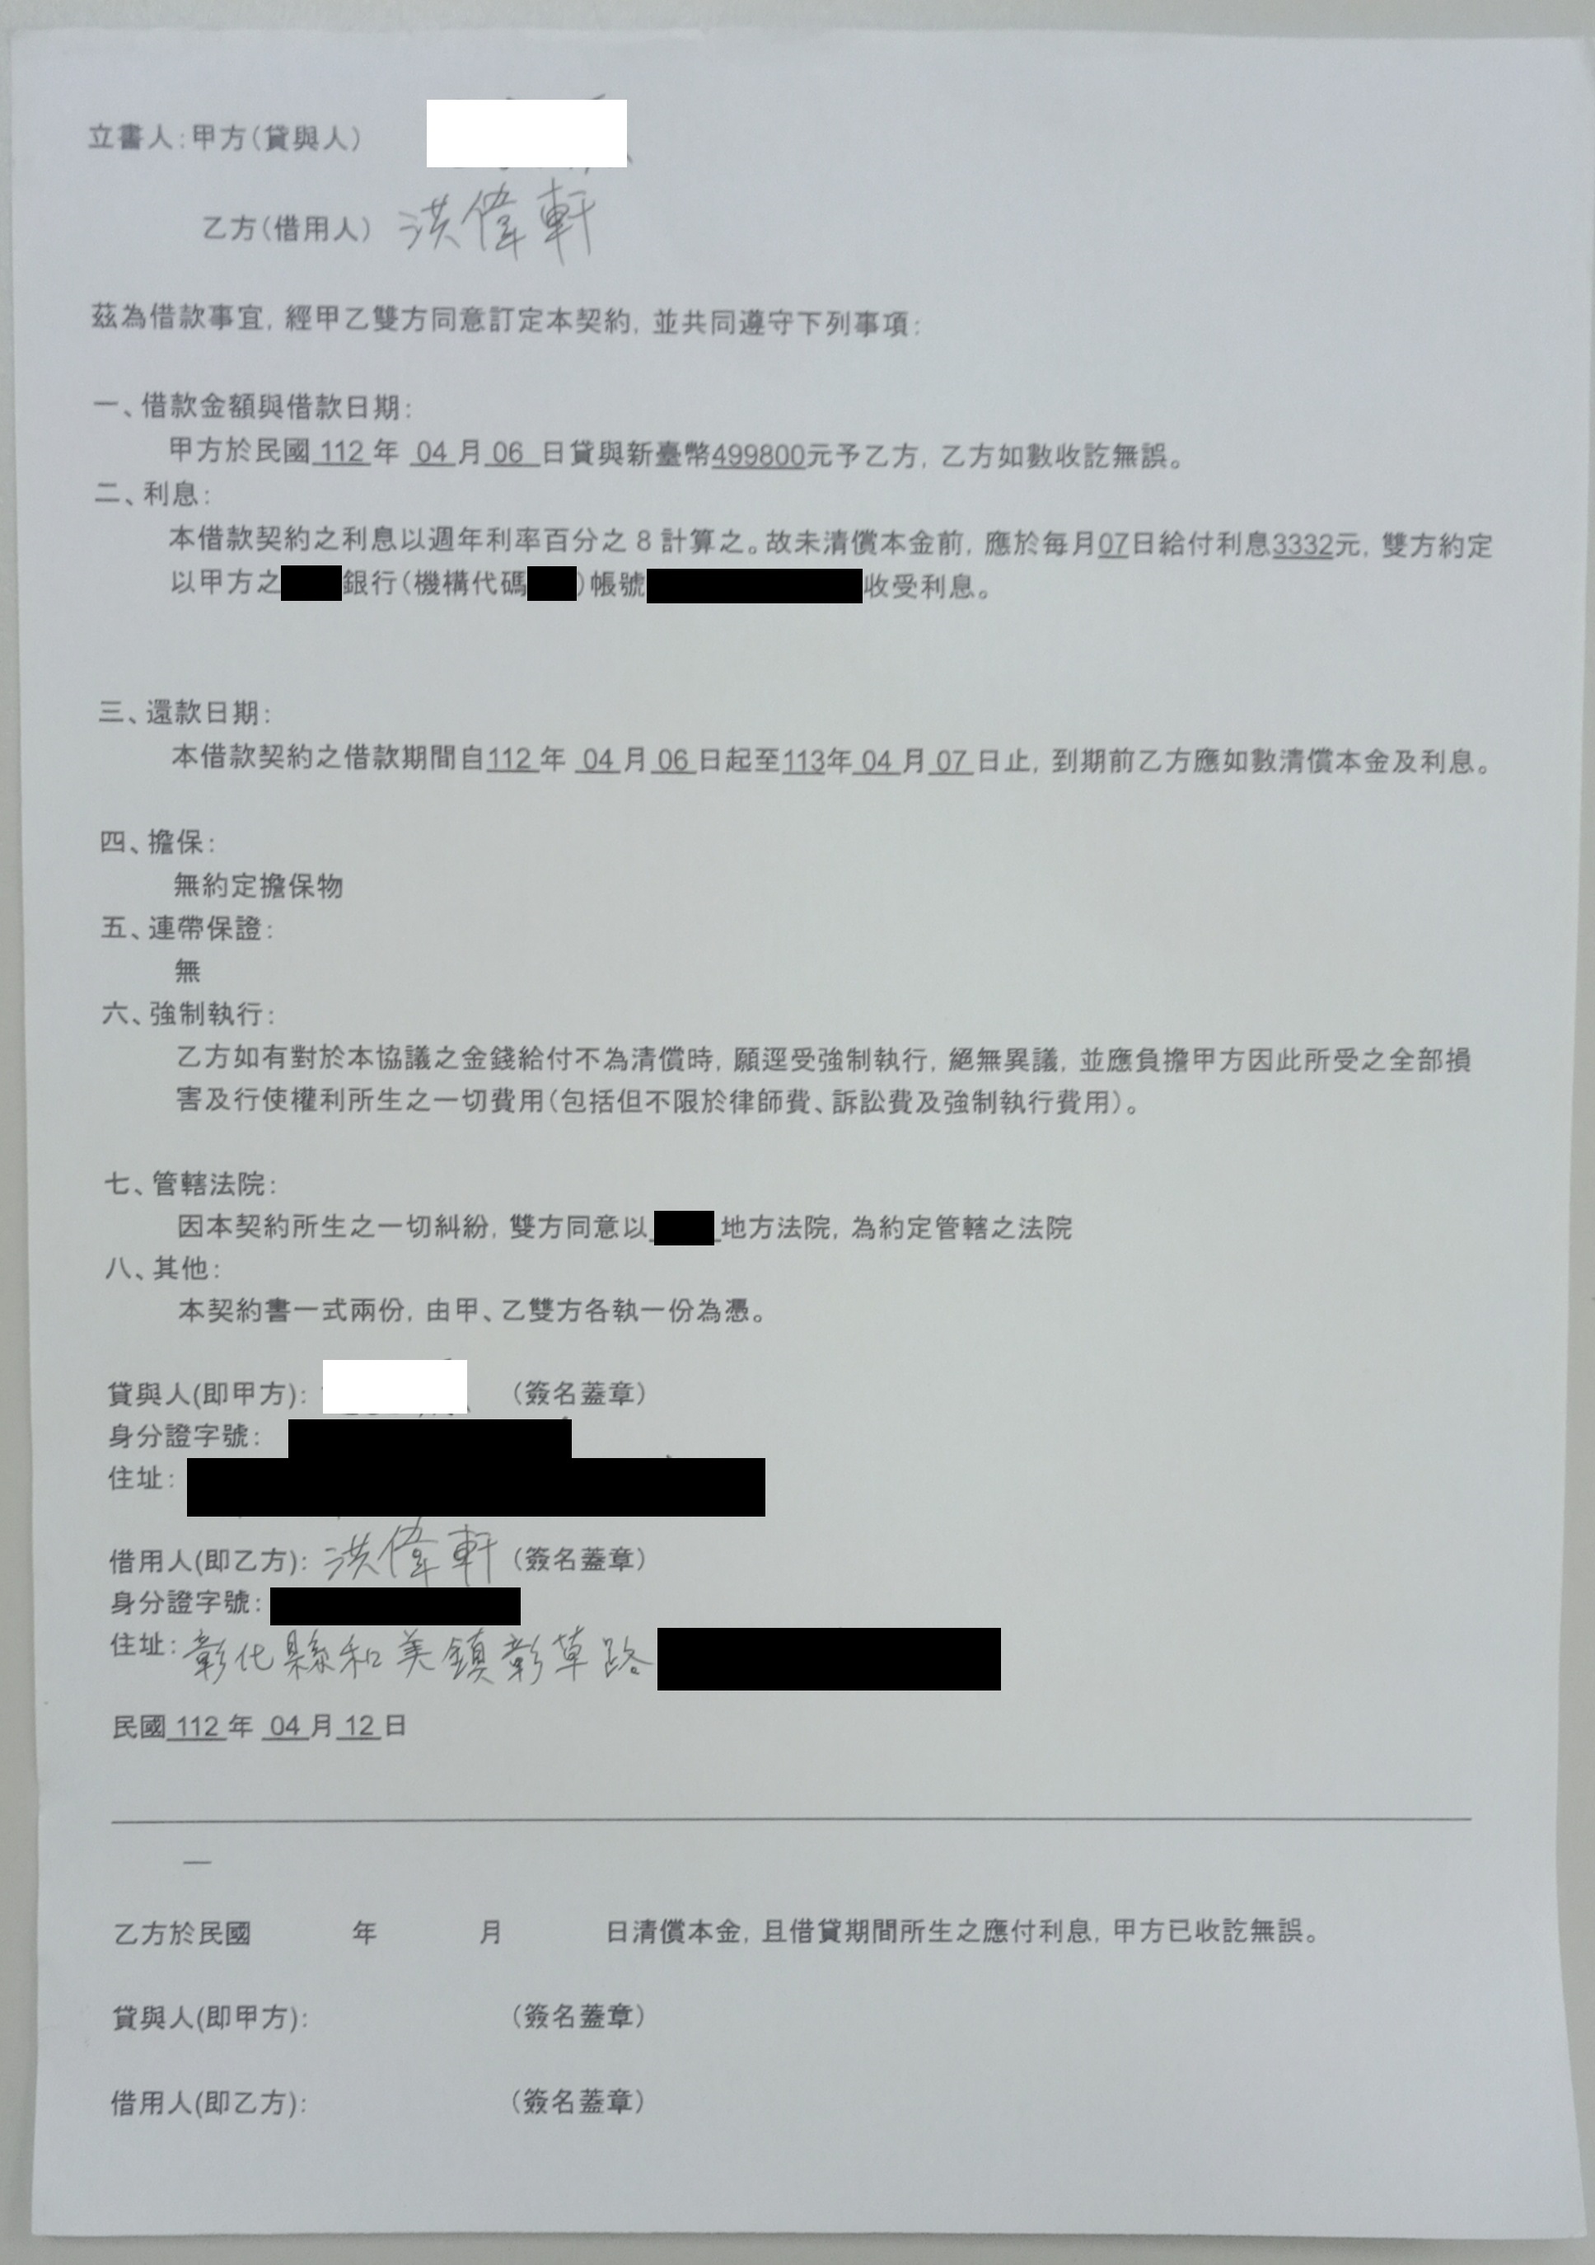
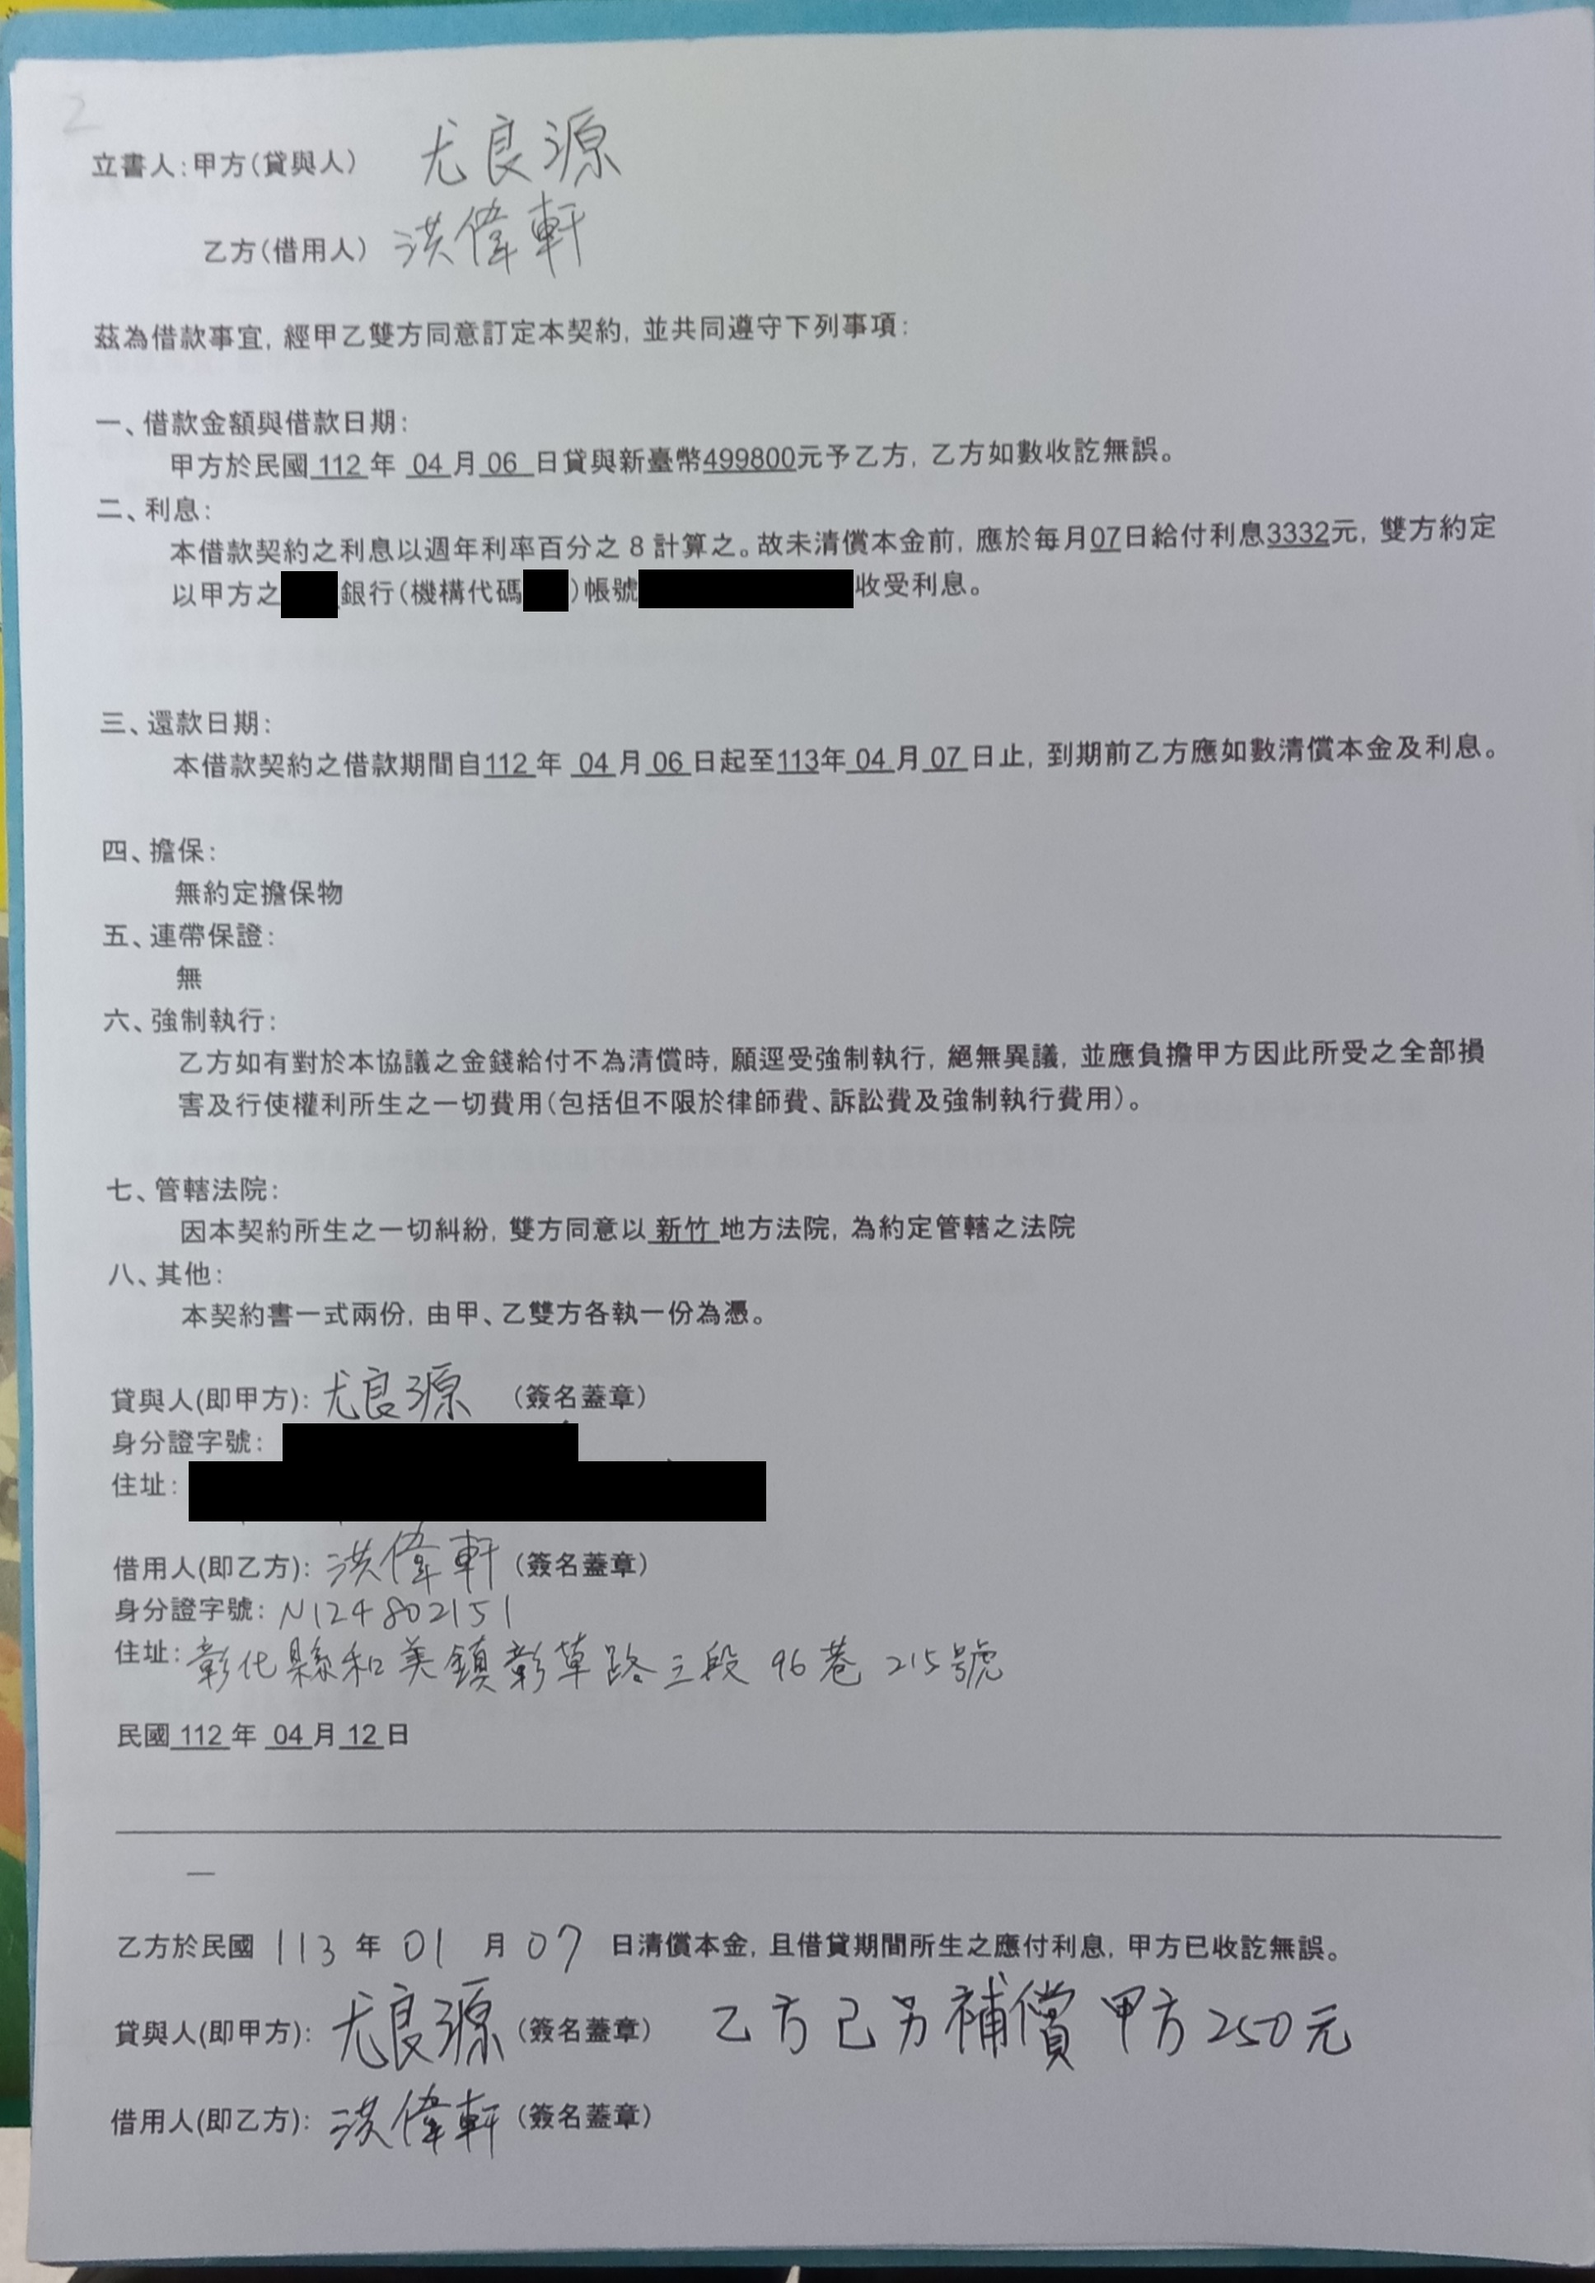
2024/01/28：2清償，簽4,5,6。

diff --git a/loanContractDisplay/contractDataList.js b/loanContractDisplay/contractDataList.js
@@ -13,7 +13,7 @@ let contractDataList = [
 	},
 	{
 		Id: 2,
-		Name: null,
+		Name: '尤良源',
 		Photos: ['2_1_v2'],
 		DateStart: new Date(2023, 3, 6), //112 年  04 月 06  日
 		DateEnd: new Date(2024, 3, 7), //113年 04 月 07 日
@@ -21,6 +21,8 @@ let contractDataList = [
 		Principal: 499800,
 		Type: 1,
 		Rate: 8 / 12,
+		DateFinish:new Date(2024, 0, 7),
+		DistributedInterest:29988, //3332*9
 	},
 	{
 		Id: 3,
@@ -98,9 +100,9 @@ let contractDataList = [
 	{
 		Id: 4,
 		Name: null,
-		Photos: ['尚未簽紙本契約',],
-		DateStart: new Date(2023, 8, 18), //112 年  08 月 18 日
-		DateEnd: new Date(2030, 8, 18), //119年 08月 18 日
+		Photos: ['4_1_m', '4_2'],
+		DateStart: new Date(2023, 7, 18), //112 年  08 月 18 日
+		DateEnd: new Date(2030, 7, 18), //119年 08月 18 日
 		// Duration: 7,
 		Principal: 200000,
 		Type: 2,
@@ -192,15 +194,96 @@ let contractDataList = [
 			[3007, 20],
 		],
 	},
-]
-
+	{
+		Id: 5,
+		Name: null,
+		Photos: ['5_m'],
+		DateStart: new Date(2024, 0, 7), //2024/01/07 -> 2029
+		DateEnd: new Date(2029, 0, 7),
+		Principal: 500000,
+		Type: 1,
+		Rate: 0.65,
+	},
+	{
+		Id: 6,
+		Name: null,
+		Photos: ['6_1_m', '6_2'],
+		DateStart: new Date(2024, 0, 22), //2024/01/07 -> 2029
+		DateEnd: new Date(2029, 0, 22),
+		Principal: 100000,
+		Type: 2,
+		Rate: 7.8,
+		AmortizeTable: [
+			[1369, 650],
+			[1378, 641],
+			[1387, 632],
+			[1396, 623],
+			[1405, 614],
+			[1414, 605],
+			[1423, 596],
+			[1433, 586],
+			[1442, 577],
+			[1451, 568],
+			[1461, 558],
+			[1470, 549],
+			[1480, 539],
+			[1489, 530],
+			[1499, 520],
+			[1509, 510],
+			[1519, 500],
+			[1528, 491],
+			[1538, 481],
+			[1548, 471],
+			[1558, 461],
+			[1569, 450],
+			[1579, 440],
+			[1589, 430],
+			[1599, 420],
+			[1610, 409],
+			[1620, 399],
+			[1631, 388],
+			[1641, 378],
+			[1652, 367],
+			[1663, 356],
+			[1674, 345],
+			[1684, 335],
+			[1695, 324],
+			[1706, 313],
+			[1717, 302],
+			[1729, 290],
+			[1740, 279],
+			[1751, 268],
+			[1763, 256],
+			[1774, 245],
+			[1786, 233],
+			[1797, 222],
+			[1809, 210],
+			[1821, 198],
+			[1832, 187],
+			[1844, 175],
+			[1856, 163],
+			[1868, 151],
+			[1881, 138],
+			[1893, 126],
+			[1905, 114],
+			[1917, 102],
+			[1930, 89],
+			[1942, 77],
+			[1955, 64],
+			[1968, 51],
+			[1981, 38],
+			[1993, 26],
+			[1939, 13],
+		],
+	},
+];
 
 //---------------------------------
 /*
 const fakeContract3 = {
   Id: 93,
   Name: null,
-  Photos: '',
+  Photos: [''],
   DateStart: new Date(2023, 0, 13),
   DateEnd: new Date(2024, 1, 14),
   Principal: 200000,
